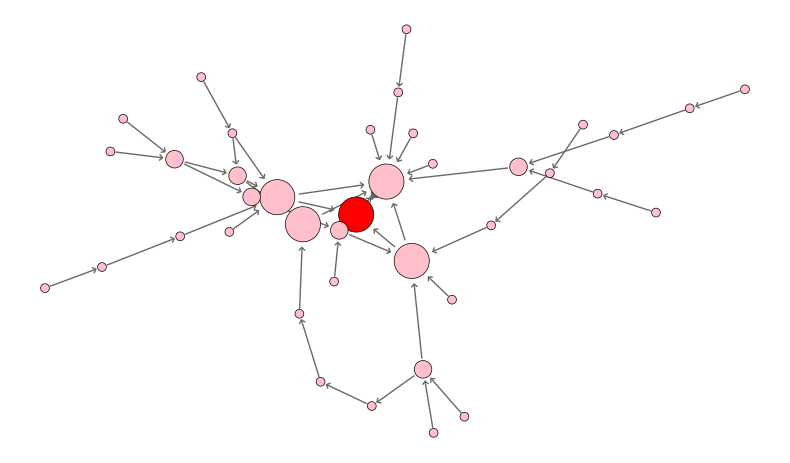
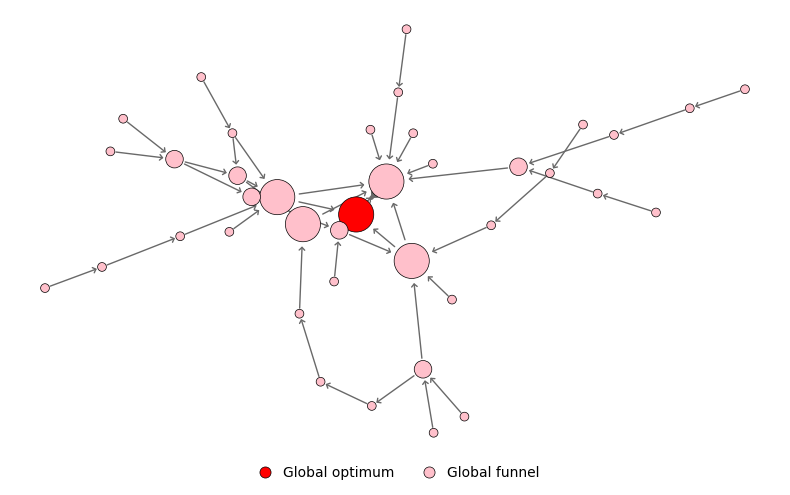
feat: add node category legend to 2D and 3D plots

diff --git a/src/lonkit/visualization.py b/src/lonkit/visualization.py
@@ -6,6 +6,7 @@ import imageio
 import matplotlib.pyplot as plt
 import numpy as np
 import plotly.graph_objects as go
+from matplotlib.lines import Line2D
 
 from lonkit.lon import CMLON, LON
 
@@ -20,6 +21,21 @@ COLORS = {
 }
 
 BACKGROUND_COLOR = "rgba(255,255,255,255)"
+
+LON_LEGEND = [("lon_global", "Global optimum"), ("lon_local", "Local optimum")]
+CMLON_LEGEND = [
+    ("global_optimum", "Global optimum"),
+    ("global_basin", "Global funnel"),
+    ("local_sink", "Local sink"),
+    ("local_basin", "Local funnel"),
+]
+
+
+def _legend_entries(lon_or_cmlon: LON | CMLON, node_colors: list[str]) -> list[tuple[str, str]]:
+    """Return `(color, label)` pairs for the node categories present in the plot."""
+    present = set(node_colors)
+    legend = CMLON_LEGEND if isinstance(lon_or_cmlon, CMLON) else LON_LEGEND
+    return [(COLORS[key], label) for key, label in legend if COLORS[key] in present]
 
 
 def _ensure_parent_dir(path: str | Path) -> Path:
@@ -236,6 +252,32 @@ class LONVisualizer:
             zorder=10,
         )
 
+        entries = _legend_entries(lon_or_cmlon, node_colors)
+        if entries:
+            handles = [
+                Line2D(
+                    [],
+                    [],
+                    linestyle="none",
+                    marker="o",
+                    markersize=8,
+                    markerfacecolor=color,
+                    markeredgecolor="black",
+                    markeredgewidth=0.5,
+                    label=label,
+                )
+                for color, label in entries
+            ]
+            ax.legend(
+                handles=handles,
+                loc="upper center",
+                bbox_to_anchor=(0.5, 0.0),
+                ncol=len(handles),
+                frameon=False,
+                handletextpad=0.3,
+                columnspacing=1.5,
+            )
+
         plt.tight_layout()
 
         if output_path:
@@ -323,6 +365,19 @@ class LONVisualizer:
             )
         )
 
+        # Legend-only traces: plotly cannot show one legend entry per node color.
+        for color, label in _legend_entries(lon_or_cmlon, node_colors):
+            fig.add_trace(
+                go.Scatter3d(
+                    x=[None],
+                    y=[None],
+                    z=[None],
+                    mode="markers",
+                    marker=dict(size=8, color=color, line=dict(color="black", width=0.5)),
+                    name=label,
+                )
+            )
+
         fig.update_layout(
             scene=dict(
                 xaxis=dict(
@@ -354,6 +409,7 @@ class LONVisualizer:
             margin=dict(l=0, r=0, t=0, b=0),
             paper_bgcolor=BACKGROUND_COLOR,
             plot_bgcolor=BACKGROUND_COLOR,
+            legend=dict(orientation="h", x=0.5, xanchor="center", y=0.02, yanchor="bottom"),
         )
 
         if output_path:

diff --git a/tests/test_visualization.py b/tests/test_visualization.py
@@ -150,3 +150,54 @@ class TestColorsRespectTolerance:
 
         assert colors["a"] == colors["b"] == COLORS["lon_global"]
         assert colors["x"] == colors["y"] == COLORS["lon_local"]
+
+
+class TestLegend:
+    @pytest.fixture
+    def two_funnel_lon(self) -> LON:
+        trace = pd.DataFrame(
+            {
+                "run": [0, 1],
+                "fit1": [3.0, 4.0],
+                "node1": ["a", "c"],
+                "fit2": [0.0, 1.0],
+                "node2": ["b", "d"],
+            }
+        )
+        return LON.from_trace_data(trace)
+
+    def test_2d_legend_lists_present_categories(
+        self, two_funnel_lon: LON, visualizer: LONVisualizer
+    ) -> None:
+        lon_fig = visualizer.plot_2d(two_funnel_lon, seed=SEED)
+        cmlon_fig = visualizer.plot_2d(two_funnel_lon.to_cmlon(), seed=SEED)
+        try:
+            lon_labels = [t.get_text() for t in lon_fig.axes[0].get_legend().get_texts()]
+            cmlon_labels = [t.get_text() for t in cmlon_fig.axes[0].get_legend().get_texts()]
+        finally:
+            plt.close("all")
+
+        assert lon_labels == ["Global optimum", "Local optimum"]
+        assert cmlon_labels == ["Global optimum", "Global funnel", "Local sink", "Local funnel"]
+
+    def test_3d_legend_lists_present_categories(
+        self, two_funnel_lon: LON, visualizer: LONVisualizer
+    ) -> None:
+        single_trace = pd.DataFrame(
+            {"run": [0], "fit1": [1.0], "node1": ["a"], "fit2": [0.0], "node2": ["b"]}
+        )
+        single_funnel = LON.from_trace_data(single_trace).to_cmlon()
+
+        fig = visualizer.plot_3d(two_funnel_lon.to_cmlon(), seed=SEED)
+        single_fig = visualizer.plot_3d(single_funnel, seed=SEED)
+
+        assert [t.name for t in fig.data if t.showlegend is not False] == [
+            "Global optimum",
+            "Global funnel",
+            "Local sink",
+            "Local funnel",
+        ]
+        assert [t.name for t in single_fig.data if t.showlegend is not False] == [
+            "Global optimum",
+            "Global funnel",
+        ]

diff --git a/CHANGELOG.md b/CHANGELOG.md
@@ -4,6 +4,10 @@
 
 A bug-fix release focused on correctness of sampling, metrics, and plots.
 
+### Highlights
+
+- `LONVisualizer.plot_2d()` and `plot_3d()` now draw a legend of node categories: global and local optima for a LON, and global optima, global funnels, local sinks, and local funnels for a CMLON. Only categories present in the plot are listed.
+
 ### Bug Fixes
 
 - `LONVisualizer.compute_lon_colors()` and `compute_cmlon_colors()`, and therefore all plots, now classify global optima using the network's `eq_atol`, like the network metrics, instead of exact equality. `CMLON.get_local_sinks()` now returns exactly the sinks that are not global sinks, so a sink within `eq_atol` of the best fitness is no longer both a global and a local sink. Previously, such sinks counted towards `n_global_funnels` but were drawn as local sinks. Plots of networks with rounded fitness (`fitness_precision`) and the default `eq_atol` are unchanged.

diff --git a/README.md b/README.md
@@ -83,7 +83,7 @@ viz.plot_3d(lon, output_path="lon_3d.png")
   </tr>
 </table>
 
-Nodes are local optima and edges are transitions between them, with node size and edge width growing with how often they were visited. Global optima are drawn in red and the nodes of their funnels in pink; sinks of other funnels are drawn in blue and the nodes of their funnels in light blue.
+Nodes are local optima and edges are transitions between them, with node size and edge width growing with how often they were visited.
 
 ### Compressed Monotonic LONs (CMLONs)
 
